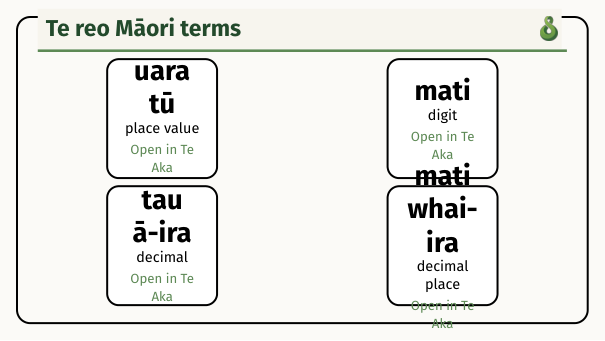
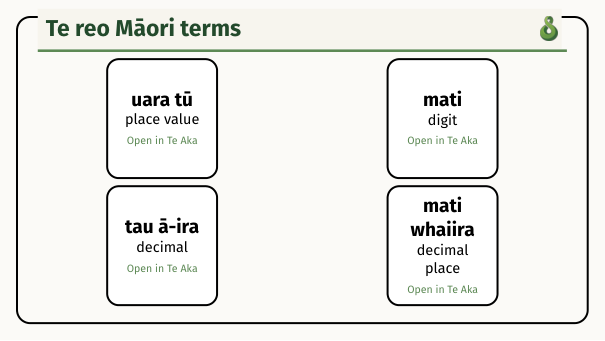
Fix internal overflow: reduce font to \large, tighten spacing, \scriptsize Te Aka link

diff --git a/OPERATIONS/templates/te-reo-template.tex b/OPERATIONS/templates/te-reo-template.tex
@@ -49,11 +49,11 @@
     \centering
     \begin{termcard}
       \centering
-      {\bfseries\LARGE #1\par}
-      \vspace{0.1em}
+      {\bfseries\large #1\par}
+      \vspace{0.05em}
       \small #2\par
-      \vspace{0.2em}
-      \href{#3}{\footnotesize\color{mmgreenLeaf} Open in Te Aka}
+      \vspace{0.1em}
+      \href{#3}{\scriptsize\color{mmgreenLeaf} Open in Te Aka}
     \end{termcard}%
   \end{minipage}%
 }
